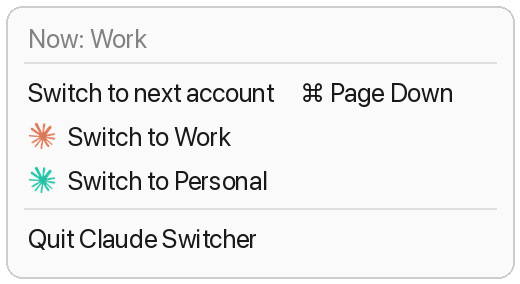
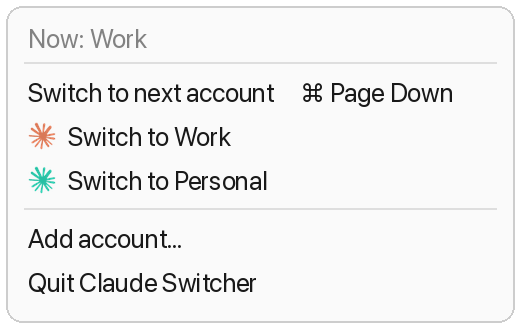
Add accounts from the menu bar, show account colours in the menu, reliable agent reload
- menu: Add account… opens a new Claude window; the new session folder is picked up automatically
  (claude-switch add leaves a pending flag, the menu bar app runs setup --quiet until it appears)
- menu rows show each account's coloured logo inside the title (menu item images were not drawn)
- folder detection: per account, the org folder that loaded the most sessions (the latest read can be
  a transient one while logging out)
- install/setup wait for launchd to unload before bootstrapping again (fixes 5: Input/output error)

diff --git a/menubar/main.swift b/menubar/main.swift
@@ -88,9 +88,26 @@ let claudeMask: CGImage? = {
                    provider: provider, decode: nil, shouldInterpolate: true, intent: .defaultIntent)
 }()
 
+/// Render once into a real bitmap. Drawing-handler images are drawn lazily, and menus did not show
+/// the masked logo that way (the menu bar button did) — a plain bitmap shows everywhere.
+func bitmap(_ img: NSImage) -> NSImage {
+    let pt = img.size, scale: CGFloat = 2
+    guard let rep = NSBitmapImageRep(bitmapDataPlanes: nil, pixelsWide: Int(pt.width * scale), pixelsHigh: Int(pt.height * scale),
+                                     bitsPerSample: 8, samplesPerPixel: 4, hasAlpha: true, isPlanar: false,
+                                     colorSpaceName: .deviceRGB, bytesPerRow: 0, bitsPerPixel: 0) else { return img }
+    rep.size = pt
+    NSGraphicsContext.saveGraphicsState()
+    NSGraphicsContext.current = NSGraphicsContext(bitmapImageRep: rep)
+    img.draw(in: NSRect(origin: .zero, size: pt))
+    NSGraphicsContext.restoreGraphicsState()
+    let out = NSImage(size: pt)
+    out.addRepresentation(rep)
+    return out
+}
+
 func logoIcon(_ color: NSColor, dimmed: Bool) -> NSImage {
-    guard let m = claudeMask else { return starIcon(color, dimmed: dimmed) }
-    return NSImage(size: NSSize(width: 18, height: 18), flipped: false) { rect in
+    guard let m = claudeMask else { return bitmap(starIcon(color, dimmed: dimmed)) }
+    return bitmap(NSImage(size: NSSize(width: 18, height: 18), flipped: false) { rect in
         guard let g = NSGraphicsContext.current?.cgContext else { return false }
         // CGImage masks treat white as "draw"; an alpha-style grey mask needs clip(to:mask:) with an image mask.
         guard let imgMask = CGImage(maskWidth: m.width, height: m.height, bitsPerComponent: 8, bitsPerPixel: 8,
@@ -100,7 +117,7 @@ func logoIcon(_ color: NSColor, dimmed: Bool) -> NSImage {
         (dimmed ? color.withAlphaComponent(0.35) : color).setFill()
         rect.fill()
         return true
-    }
+    })
 }
 
 final class App: NSObject, NSApplicationDelegate {
@@ -116,6 +133,17 @@ final class App: NSObject, NSApplicationDelegate {
         rebuildMenu()
         refresh()
         Timer.scheduledTimer(withTimeInterval: 3, repeats: true) { [weak self] _ in self?.refresh() }
+        // After "Add account…", keep re-detecting session folders until the new account's one shows up.
+        Timer.scheduledTimer(withTimeInterval: 15, repeats: true) { [weak self] _ in
+            let flag = NSHomeDirectory() + "/Library/Application Support/claude-switcher/pending-setup"
+            guard let self = self, !self.busy, FileManager.default.fileExists(atPath: flag) else { return }
+            DispatchQueue.global().async {
+                let out = run(["setup", "--quiet"])
+                DispatchQueue.main.async {
+                    if out.contains("added") { self.rebuildMenu() }
+                }
+            }
+        }
         registerHotKey()
     }
 
@@ -138,11 +166,31 @@ final class App: NSObject, NSApplicationDelegate {
             let it = NSMenuItem(title: "Switch to \(p.label)", action: #selector(toProfile(_:)), keyEquivalent: "")
             it.target = self
             it.representedObject = p.key
-            it.image = logoIcon(color(p.key), dimmed: false)
+            // The coloured logo goes inside the title: menu item `image`s were not drawn on this macOS.
+            let icon = NSTextAttachment()
+            icon.image = logoIcon(color(p.key), dimmed: false)
+            icon.bounds = CGRect(x: 0, y: -3, width: 15, height: 15)
+            let title = NSMutableAttributedString(attachment: icon)
+            title.append(NSAttributedString(string: "  Switch to \(p.label)", attributes: [.font: NSFont.menuFont(ofSize: 0)]))
+            it.attributedTitle = title
             menu.addItem(it)
         }
         menu.addItem(.separator())
+        let add = NSMenuItem(title: "Add account…", action: #selector(addAccount), keyEquivalent: "")
+        add.target = self
+        menu.addItem(add)
         menu.addItem(NSMenuItem(title: "Quit Claude Switcher", action: #selector(NSApplication.terminate(_:)), keyEquivalent: ""))
+    }
+
+    /// Opens a Claude window with a new data folder for the first login. The new account's session folder
+    /// is picked up by `claude-switch setup`, which the timer runs until it appears.
+    @objc func addAccount() {
+        let out = run(["add"])
+        let al = NSAlert()
+        al.messageText = "Log in to the new account"
+        al.informativeText = out
+        al.runModal()
+        rebuildMenu()
     }
 
     func refresh() {

diff --git a/src/claude_switch.py b/src/claude_switch.py
@@ -34,6 +34,7 @@ QUIT_TIMEOUT = 30
 SYNC_LABEL = "io.github.claude-switcher.sync"
 SYNC_PLIST = os.path.join(C.HOME, "Library/LaunchAgents", SYNC_LABEL + ".plist")
 LAST = os.path.join(C.STATE_DIR, "last-account.json")
+PENDING = os.path.join(C.STATE_DIR, "pending-setup")  # set by `add`; the menu bar app runs `setup --quiet` while it exists
 
 
 def last_account():
@@ -198,15 +199,25 @@ def write_sync_agent(dirs):
     os.makedirs(os.path.dirname(SYNC_PLIST), exist_ok=True)
     os.makedirs(C.STATE_DIR, exist_ok=True)
     uid = os.getuid()
-    subprocess.run(["launchctl", "bootout", f"gui/{uid}/{SYNC_LABEL}"], capture_output=True)
+    target = f"gui/{uid}/{SYNC_LABEL}"
+    subprocess.run(["launchctl", "bootout", target], capture_output=True)
+    for _ in range(20):  # launchd refuses a bootstrap while the old copy is still unloading
+        if subprocess.run(["launchctl", "print", target], capture_output=True).returncode != 0:
+            break
+        time.sleep(0.25)
     with open(SYNC_PLIST, "wb") as f:
         plistlib.dump(plist, f)
-    subprocess.run(["launchctl", "bootstrap", f"gui/{uid}", SYNC_PLIST], check=True)
+    if subprocess.run(["launchctl", "bootstrap", f"gui/{uid}", SYNC_PLIST], capture_output=True).returncode != 0:
+        time.sleep(1)
+        subprocess.run(["launchctl", "bootstrap", f"gui/{uid}", SYNC_PLIST], check=True)
 
 
-def cmd_setup(conf):
+def cmd_setup(conf, quiet=False):
     data_dirs = [p["data_dir"] for p in conf["profiles"].values()]
     dirs = C.detect_session_dirs(data_dirs)
+    new = [d for d in dirs if d not in conf["sync_dirs"]]
+    if quiet and not new:
+        return 0  # menu bar polling after "Add account…": nothing new yet
     if not dirs:
         print("No session folders found in the Claude log yet. Open the Claude app once (Code tab), then run setup again.")
         return 7
@@ -221,6 +232,10 @@ def cmd_setup(conf):
     C.save(conf)
     rc = cs_sync.sync(dirs)  # first run merges everything (no deletions)
     write_sync_agent(dirs)
+    if new:
+        print(f"added {len(new)} session folder(s)")
+        if os.path.exists(PENDING):
+            os.remove(PENDING)
     print(f"sync folders ({len(dirs)}):")
     for d in dirs:
         print("  " + d.replace(C.HOME, "~"))
@@ -239,11 +254,14 @@ def cmd_add(conf, label):
     C.save(conf)
     d = conf["profiles"][key]["data_dir"]
     os.makedirs(d, exist_ok=True)
+    os.makedirs(C.STATE_DIR, exist_ok=True)
+    open(PENDING, "w").close()
     subprocess.run(["open", "-n", C.APP, "--args", f"--user-data-dir={d}"], check=True)
     print(f"A new Claude window opened for account {conf['profiles'][key]['label']} ({key}). Log in there once.\n"
           "Note: Google sign-in returns to the first Claude window and is ignored. Either use\n"
           "email sign-in, or quit the other Claude window while you sign in.\n"
-          "After logging in, open the Code tab once, then run: claude-switch setup")
+          "After logging in, open the Code tab once. The menu bar app then adds the account by itself\n"
+          "(without the menu bar app, run: claude-switch setup).")
     return 0
 
 
@@ -271,7 +289,7 @@ def main(argv):
         print(cur if "--short" in flags else {"none": "not running", "many": "several running"}.get(cur, conf["profiles"].get(cur, {}).get("label", cur)))
         return 0
     if cmd == "setup":
-        return cmd_setup(conf)
+        return cmd_setup(conf, "--quiet" in flags)
     if cmd == "add":
         return cmd_add(conf, " ".join(args[1:]))
     if cmd == "profiles":

diff --git a/tests/test_add.py b/tests/test_add.py
@@ -1,0 +1,53 @@
+"""`claude-switch add` names new accounts C, D, … and gives each its own data folder."""
+import os
+import sys
+import tempfile
+import unittest
+from unittest import mock
+
+sys.path.insert(0, os.path.join(os.path.dirname(__file__), "..", "src"))
+import cs_config as C  # noqa: E402
+import claude_switch as cs  # noqa: E402
+
+
+class AddTest(unittest.TestCase):
+    def setUp(self):
+        self.tmp = tempfile.TemporaryDirectory()
+        t = self.tmp.name
+        self.saved = {}
+        for p in [mock.patch.object(C, "APP_SUPPORT", t),
+                  mock.patch.object(C, "save", lambda c: self.saved.update(c)),
+                  mock.patch.object(C, "STATE_DIR", os.path.join(t, "state")),
+                  mock.patch.object(cs, "PENDING", os.path.join(t, "state", "pending-setup")),
+                  mock.patch.object(cs.subprocess, "run")]:  # do not open a real Claude window
+            p.start()
+            self.addCleanup(p.stop)
+        os.makedirs(os.path.join(t, "Claude Second"))
+        self.conf = {"profiles": {"a": {"label": "A", "data_dir": C.PRIMARY_DATA},
+                                  "b": {"label": "B", "data_dir": os.path.join(t, "Claude Second")}},
+                     "sync_dirs": []}
+
+    def tearDown(self):
+        self.tmp.cleanup()
+
+    def test_next_accounts_are_c_then_d(self):
+        cs.cmd_add(self.conf, "Team")
+        self.assertEqual(self.conf["profiles"]["c"]["label"], "Team")
+        self.assertTrue(os.path.isdir(os.path.join(self.tmp.name, "Claude C")))
+        cs.cmd_add(self.conf, "")
+        self.assertEqual(self.conf["profiles"]["d"]["label"], "D")
+        self.assertTrue(os.path.isdir(os.path.join(self.tmp.name, "Claude D")))
+        # the window is opened with the new account's own data folder
+        args = cs.subprocess.run.call_args[0][0]
+        self.assertTrue(os.path.exists(os.path.join(self.tmp.name, "state", "pending-setup")))
+        self.assertIn(f"--user-data-dir={os.path.join(self.tmp.name, 'Claude D')}", args)
+
+    def test_unfinished_b_is_reused_before_adding_c(self):
+        os.rmdir(os.path.join(self.tmp.name, "Claude Second"))
+        cs.cmd_add(self.conf, "Personal")
+        self.assertNotIn("c", self.conf["profiles"])
+        self.assertEqual(self.conf["profiles"]["b"]["label"], "Personal")
+
+
+if __name__ == "__main__":
+    unittest.main()

diff --git a/README.ko.md b/README.ko.md
@@ -62,17 +62,17 @@ cd claude-switcher
 - 메뉴 막대 앱을 빌드해 `~/Applications`에 두고, 로그인할 때 자동으로 켜지게 합니다.
 - 지금 계정의 세션 폴더를 찾아 둡니다.
 
-### 두 번째 계정 추가 (처음 한 번)
+### 계정 추가 (계정마다 한 번)
+
+메뉴 막대 → **Add account…**를 누르거나, 터미널에서 실행합니다.
 
 ```bash
-claude-switch add 개인     # 자기 데이터 폴더를 쓰는 두 번째 Claude 창이 열립니다
+claude-switch add 개인     # 자기 데이터 폴더를 쓰는 새 Claude 창이 열립니다
 ```
 
-그 창에서 한 번 로그인하고 **Code** 탭을 한 번 연 뒤, 다음을 실행합니다.
-
-```bash
-claude-switch setup        # 새 계정의 세션 폴더를 찾아 동기화를 시작합니다
-```
+그 창에서 한 번 로그인하고 **Code** 탭을 한 번 여세요. 메뉴 막대 앱이 15초 안팎으로 새 계정의 세션 폴더를 찾아
+동기화에 넣고 메뉴에 추가합니다. 새 계정은 C, D, E … 순서로 이름이 붙고, 계정마다 다른 색을 씁니다.
+(메뉴 막대 앱 없이 쓸 때는 `claude-switch setup`을 실행하세요.)
 
 > **구글 로그인 주의.** 다른 Claude 창이 떠 있으면, 브라우저가 구글 로그인 결과를 *그 창*으로 넘깁니다.
 > 그 창은 이 결과를 무시하므로 새 창은 로그인되지 않습니다. 새 창에서는 **이메일 로그인**을 쓰시거나, 로그인하는 동안만

diff --git a/README.md b/README.md
@@ -62,17 +62,17 @@ cd claude-switcher
 The installer puts `claude-switch` in `~/.local/bin`, builds the menu bar app into `~/Applications`,
 starts it at login, and detects your current account's session folder.
 
-### Add your second account (once)
+### Add an account (once per account)
+
+Menu bar → **Add account…**, or in a terminal:
 
 ```bash
-claude-switch add Personal     # opens a second Claude window with its own data folder
+claude-switch add Personal     # opens a new Claude window with its own data folder
 ```
 
-Log in there once, open the **Code** tab once, then:
-
-```bash
-claude-switch setup            # finds the new account's session folder and starts syncing
-```
+Log in there once and open the **Code** tab once. The menu bar app notices the new account's session folder
+within about 15 seconds, starts syncing it and adds it to the menu. New accounts are named C, D, E … and each
+gets its own colour. (Without the menu bar app: `claude-switch setup`.)
 
 > **Google sign-in gotcha.** While another Claude window is open, the browser hands the Google sign-in back to
 > *that* window, which ignores it. Use **email sign-in** in the new window, or quit the other Claude window
